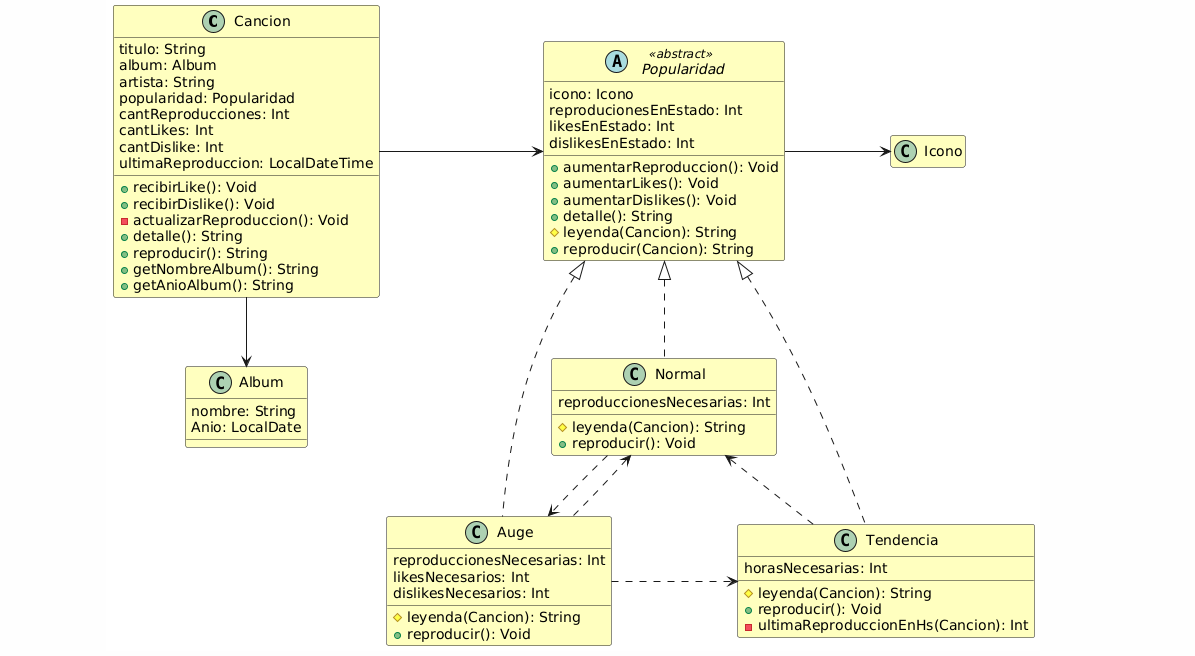
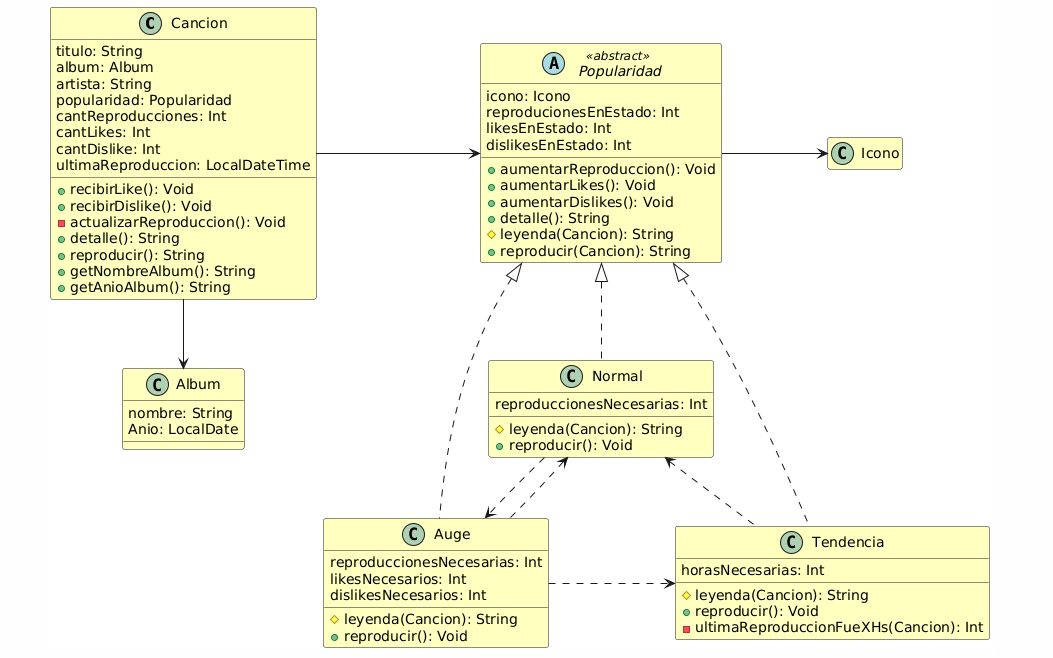
agrego test

diff --git a/src/test/java/TestPopularidad.java b/src/test/java/TestPopularidad.java
@@ -1,6 +1,7 @@
 import canciones.Cancion;
 import org.junit.jupiter.api.Assertions;
 import org.junit.jupiter.api.Test;
+import static org.mockito.Mockito.*;
 import popularidades.tiposDePopularidad.Auge;
 import popularidades.tiposDePopularidad.Normal;
 import popularidades.tiposDePopularidad.Tendencia;
@@ -8,13 +9,92 @@ import popularidades.tiposDePopularidad.Tendencia;
 public class TestPopularidad {
 
   @Test
-  public void se_crea_una_cancion() {
+  public void se_crea_una_cancion_y_esta_en_popularidad_normal() {
     Cancion cancion = new Cancion("palomita", "superMK2");
 
     Assertions.assertEquals(Normal.class, cancion.getPopularidad().getClass());
-    Assertions.assertNotEquals(Auge.class, cancion.getPopularidad().getClass());
-    Assertions.assertNotEquals(Tendencia.class, cancion.getPopularidad().getClass());
   }
 
-  
+  @Test
+  public void una_cancion_se_vuelve_en_auge() {
+    Cancion cancion = new Cancion("palomita", "superMK2");
+
+    pasarApopularidadNormal(cancion);
+
+    Assertions.assertEquals(Auge.class, cancion.getPopularidad().getClass());
+  }
+
+  @Test
+  public void una_cancion_baja_del_auge_por_tener_muchos_dislikes() {
+    Cancion cancion = new Cancion("palomita", "superMK2");
+
+    pasarApopularidadNormal(cancion);
+
+    darXcantidadDeDislikes(cancion, 5001);
+
+    cancion.reproducir();//es al momento de reproducir donde se fija si debe o no cambiar de estado
+
+    Assertions.assertEquals(Normal.class, cancion.getPopularidad().getClass());
+  }
+
+  @Test
+  public void una_cancion_se_vuelve_tendencia() {
+    Cancion cancion = new Cancion("palomita", "superMK2");
+
+    pasarApopularidadNormal(cancion);
+    pasarApopularidadTendencia(cancion);
+
+    Assertions.assertEquals(Tendencia.class, cancion.getPopularidad().getClass());
+  }
+
+  @Test
+  public void una_cancion_vuelve_a_popularidad_normal_despues_de_ser_tendencia() {
+    Cancion cancion = new Cancion("palomita", "superMK2");
+    Tendencia tendencia = spy(Tendencia.class);
+    cancion.setPopularidad(tendencia);
+
+    //el spy es mucho mejor que el mock
+    //te permite tener lo mismo que instanciar una clase y definir una parte
+    doReturn(99).when(tendencia).ultimaReproduccionFueXHs(cancion);
+
+    cancion.reproducir();
+
+    Assertions.assertEquals(Normal.class, cancion.getPopularidad().getClass());
+  }
+
+
+
+
+
+
+  //mensajes que facilitan el test
+  public void pasarApopularidadNormal(Cancion cancion) {
+    for(int i=0; i<=1001; i++)
+      cancion.reproducir();
+  }
+
+  public void darXcantidadDeDislikes(Cancion cancion, Integer cantidad) {
+    for(int i=0; i<=cantidad; i++)
+      cancion.recibirDislike();
+  }
+
+  public void pasarApopularidadTendencia(Cancion cancion) {
+    for(int i=0; i<=20000; i++)
+      cancion.recibirLike();
+
+    for(int i=0; i<=50001; i++)
+      cancion.reproducir();
+  }
+
+  // interesante esto
+  /*
+    doAnswer(invocacion -> {
+      Cancion cancion1 = invocacion.getArgument(0);
+      cancion1.setPopularidad(new Normal());
+      return null;})
+    .when(tendencia).reproducir(cancion);
+
+    cancion.reproducir();
+  */
+
 }

diff --git a/src/main/java/popularidades/tiposDePopularidad/Tendencia.java b/src/main/java/popularidades/tiposDePopularidad/Tendencia.java
@@ -4,6 +4,7 @@ import canciones.Cancion;
 import iconos.Icono;
 import java.time.Duration;
 import java.time.LocalDateTime;
+import lombok.Getter;
 import popularidades.Popularidad;
 import popularidades.tiposDePopularidad.Normal;
 
@@ -22,12 +23,13 @@ public class Tendencia extends Popularidad {
 
   @Override
   public void reproducir(Cancion cancion) {
-    if(ultimaReproduccionEnHs(cancion) >= horasNecesarias) {
+    if(ultimaReproduccionFueXHs(cancion) >= horasNecesarias) {
+      System.out.println("entraste al if");
       cancion.setPopularidad(new Normal());
     }
   }
 
-  private Integer ultimaReproduccionEnHs(Cancion cancion) {
+  public Integer ultimaReproduccionFueXHs(Cancion cancion) {
     Duration duracion = Duration.between(cancion.getUltimaReproduccion(), LocalDateTime.now());
     return (int)duracion.toHours();
   }

diff --git a/src/main/java/canciones/Cancion.java b/src/main/java/canciones/Cancion.java
@@ -48,10 +48,10 @@ public class Cancion {
     return popularidad.detalle(this);
   }
 
-  public String reproducir() {
+  public void reproducir() {
     actualizarReproduccion();
     popularidad.reproducir(this); //reproducir es la accion que puede hacer que la cancion cambie de estado
-    return detalle();
+    //return detalle();
   }
 
   public String getAlbum() {
